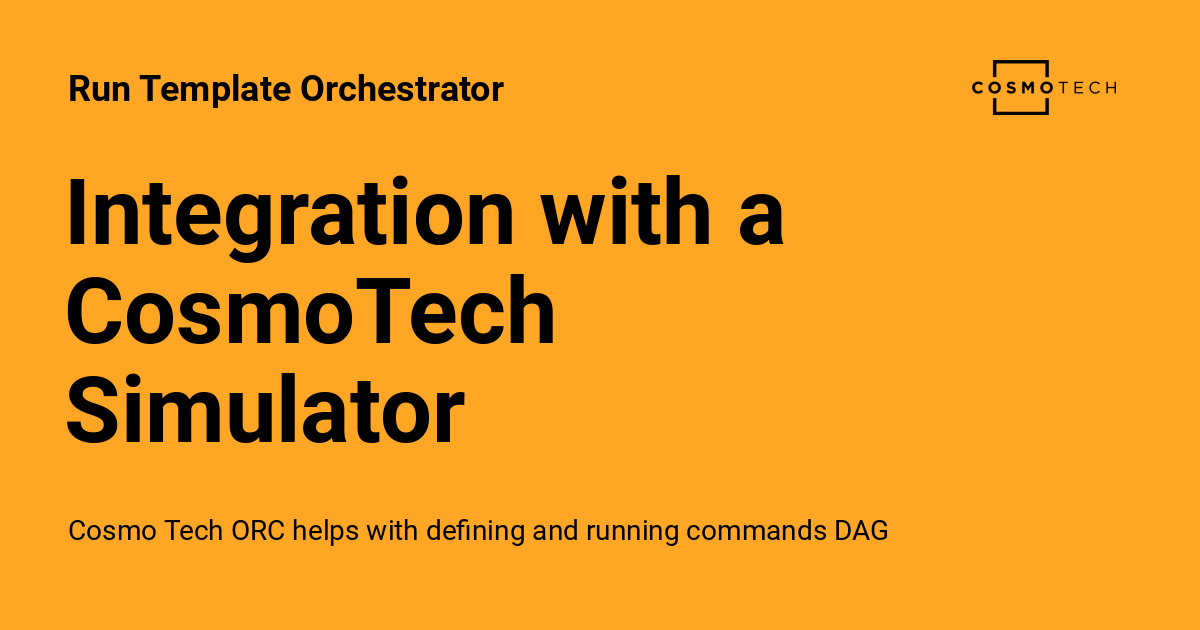
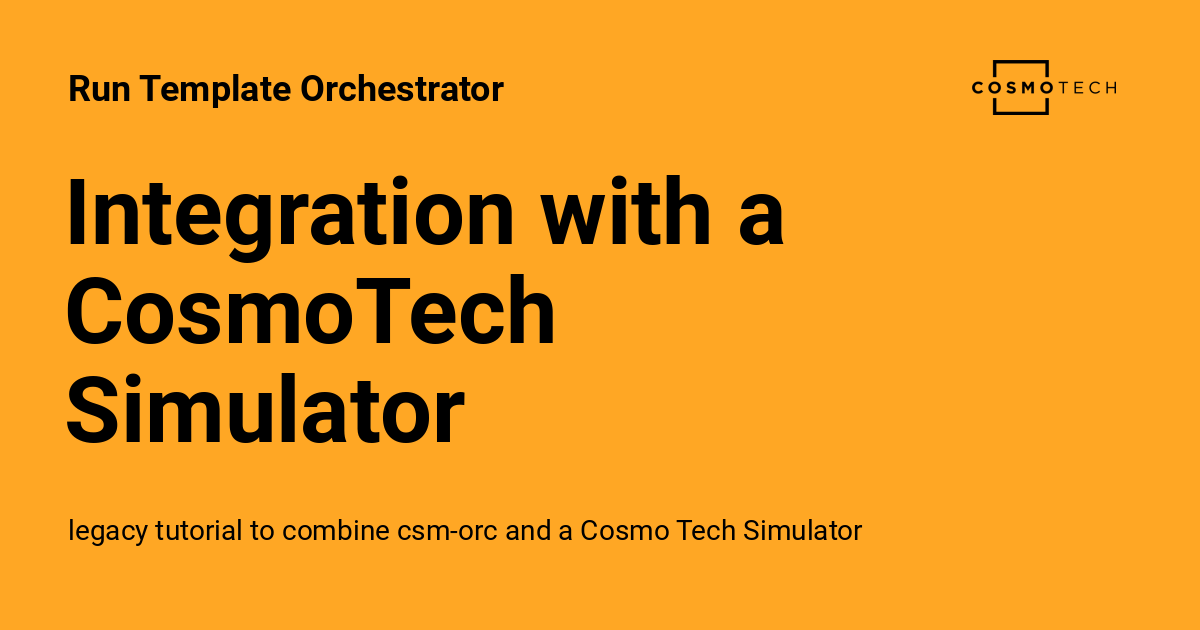
Deployed a48ce0d to AFOS-WIP with MkDocs 1.5.2 and mike 1.1.2

Changed region(s): [[0.0617, 0.8143, 0.74, 0.8746]]

diff --git a/AFOS-WIP/tutorial/brewery_legacy/index.html b/AFOS-WIP/tutorial/brewery_legacy/index.html
@@ -6,7 +6,7 @@
       <meta charset="utf-8">
       <meta name="viewport" content="width=device-width,initial-scale=1">
       
-        <meta name="description" content="Cosmo Tech ORC helps with defining and running commands DAG">
+        <meta name="description" content="legacy tutorial to combine csm-orc and a Cosmo Tech Simulator">
       
       
       
@@ -59,7 +59,7 @@
       
         <meta  property="og:title"  content="Integration with a CosmoTech Simulator - Run Template Orchestrator" >
       
-        <meta  property="og:description"  content="Cosmo Tech ORC helps with defining and running commands DAG" >
+        <meta  property="og:description"  content="legacy tutorial to combine csm-orc and a Cosmo Tech Simulator" >
       
         <meta  property="og:image"  content="./assets/images/social/tutorial/brewery_legacy.png" >
       
@@ -75,7 +75,7 @@
       
         <meta  name="twitter:title"  content="Integration with a CosmoTech Simulator - Run Template Orchestrator" >
       
-        <meta  name="twitter:description"  content="Cosmo Tech ORC helps with defining and running commands DAG" >
+        <meta  name="twitter:description"  content="legacy tutorial to combine csm-orc and a Cosmo Tech Simulator" >
       
         <meta  name="twitter:image"  content="./assets/images/social/tutorial/brewery_legacy.png" >
       

diff --git a/AFOS-WIP/tutorial/second/index.html b/AFOS-WIP/tutorial/second/index.html
@@ -6,7 +6,7 @@
       <meta charset="utf-8">
       <meta name="viewport" content="width=device-width,initial-scale=1">
       
-        <meta name="description" content="Cosmo Tech ORC helps with defining and running commands DAG">
+        <meta name="description" content="Simple tutorial to learn about Environment Variables and csm-orc">
       
       
       
@@ -63,7 +63,7 @@
       
         <meta  property="og:title"  content="Concerning Configuration - Run Template Orchestrator" >
       
-        <meta  property="og:description"  content="Cosmo Tech ORC helps with defining and running commands DAG" >
+        <meta  property="og:description"  content="Simple tutorial to learn about Environment Variables and csm-orc" >
       
         <meta  property="og:image"  content="./assets/images/social/tutorial/second.png" >
       
@@ -79,7 +79,7 @@
       
         <meta  name="twitter:title"  content="Concerning Configuration - Run Template Orchestrator" >
       
-        <meta  name="twitter:description"  content="Cosmo Tech ORC helps with defining and running commands DAG" >
+        <meta  name="twitter:description"  content="Simple tutorial to learn about Environment Variables and csm-orc" >
       
         <meta  name="twitter:image"  content="./assets/images/social/tutorial/second.png" >
       

diff --git a/AFOS-WIP/tutorial/brewery/index.html b/AFOS-WIP/tutorial/brewery/index.html
@@ -6,7 +6,7 @@
       <meta charset="utf-8">
       <meta name="viewport" content="width=device-width,initial-scale=1">
       
-        <meta name="description" content="Cosmo Tech ORC helps with defining and running commands DAG">
+        <meta name="description" content="Simple tutorial to combine csm-orc and a Cosmo Tech Simulator">
       
       
       
@@ -63,7 +63,7 @@
       
         <meta  property="og:title"  content="Brewery - Run Template Orchestrator" >
       
-        <meta  property="og:description"  content="Cosmo Tech ORC helps with defining and running commands DAG" >
+        <meta  property="og:description"  content="Simple tutorial to combine csm-orc and a Cosmo Tech Simulator" >
       
         <meta  property="og:image"  content="./assets/images/social/tutorial/brewery.png" >
       
@@ -79,7 +79,7 @@
       
         <meta  name="twitter:title"  content="Brewery - Run Template Orchestrator" >
       
-        <meta  name="twitter:description"  content="Cosmo Tech ORC helps with defining and running commands DAG" >
+        <meta  name="twitter:description"  content="Simple tutorial to combine csm-orc and a Cosmo Tech Simulator" >
       
         <meta  name="twitter:image"  content="./assets/images/social/tutorial/brewery.png" >
       

diff --git a/AFOS-WIP/tutorial/first/index.html b/AFOS-WIP/tutorial/first/index.html
@@ -6,7 +6,7 @@
       <meta charset="utf-8">
       <meta name="viewport" content="width=device-width,initial-scale=1">
       
-        <meta name="description" content="Cosmo Tech ORC helps with defining and running commands DAG">
+        <meta name="description" content="Simple tutorial to discover csm-orc">
       
       
       
@@ -63,7 +63,7 @@
       
         <meta  property="og:title"  content="My First Orchestrator - Run Template Orchestrator" >
       
-        <meta  property="og:description"  content="Cosmo Tech ORC helps with defining and running commands DAG" >
+        <meta  property="og:description"  content="Simple tutorial to discover csm-orc" >
       
         <meta  property="og:image"  content="./assets/images/social/tutorial/first.png" >
       
@@ -79,7 +79,7 @@
       
         <meta  name="twitter:title"  content="My First Orchestrator - Run Template Orchestrator" >
       
-        <meta  name="twitter:description"  content="Cosmo Tech ORC helps with defining and running commands DAG" >
+        <meta  name="twitter:description"  content="Simple tutorial to discover csm-orc" >
       
         <meta  name="twitter:image"  content="./assets/images/social/tutorial/first.png" >
       
